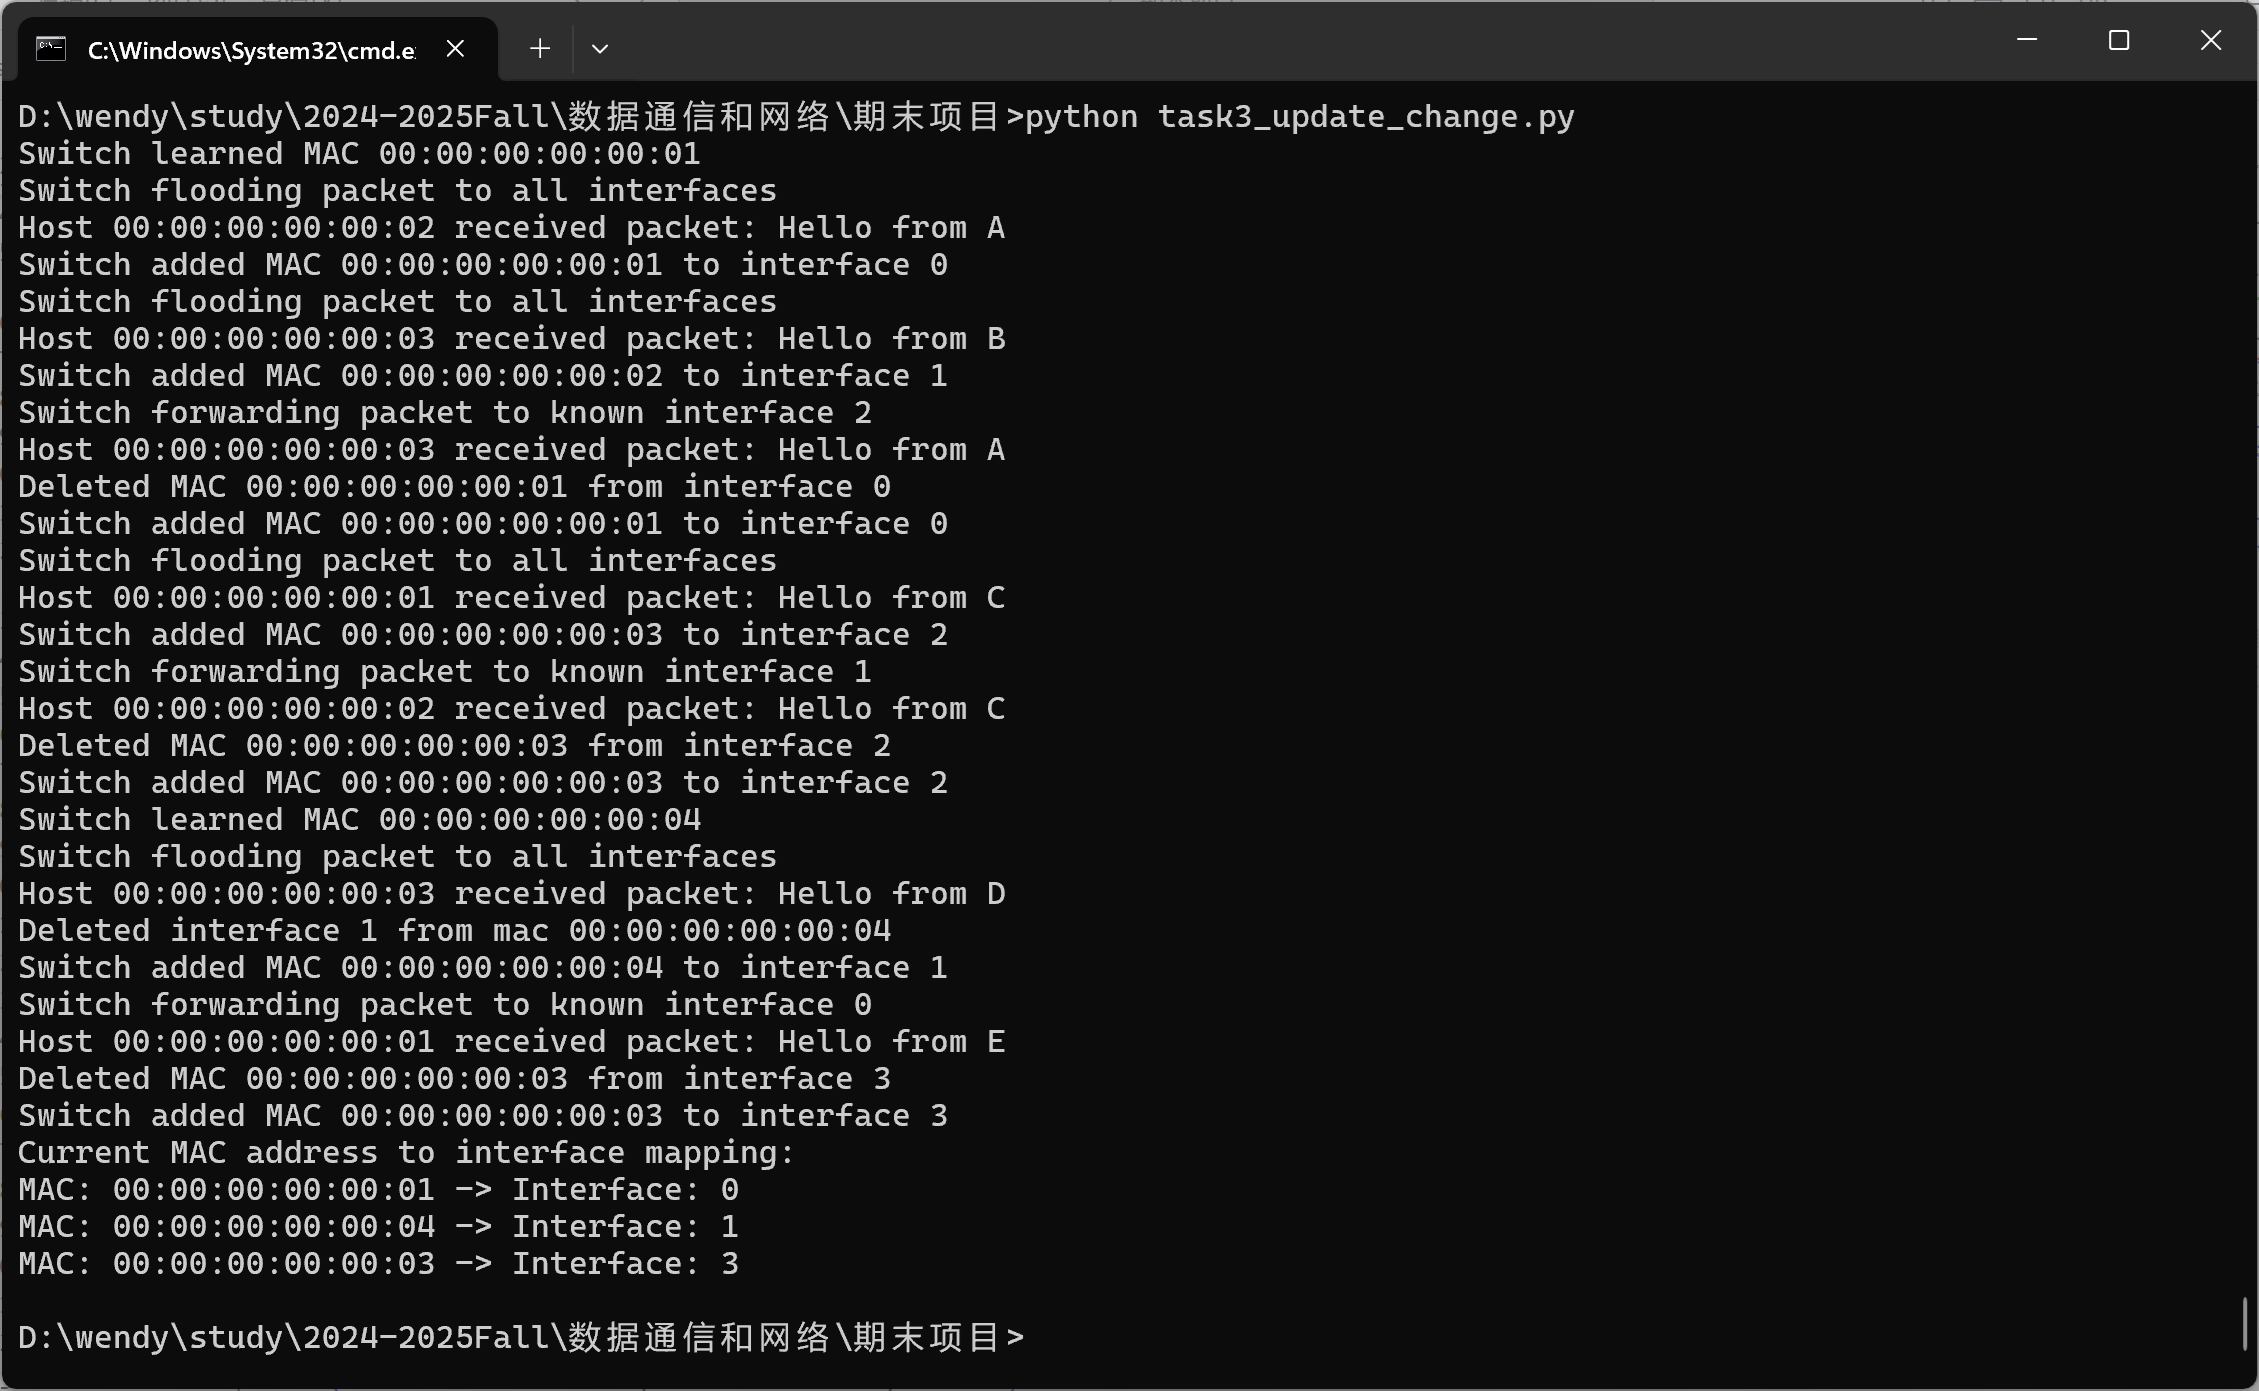
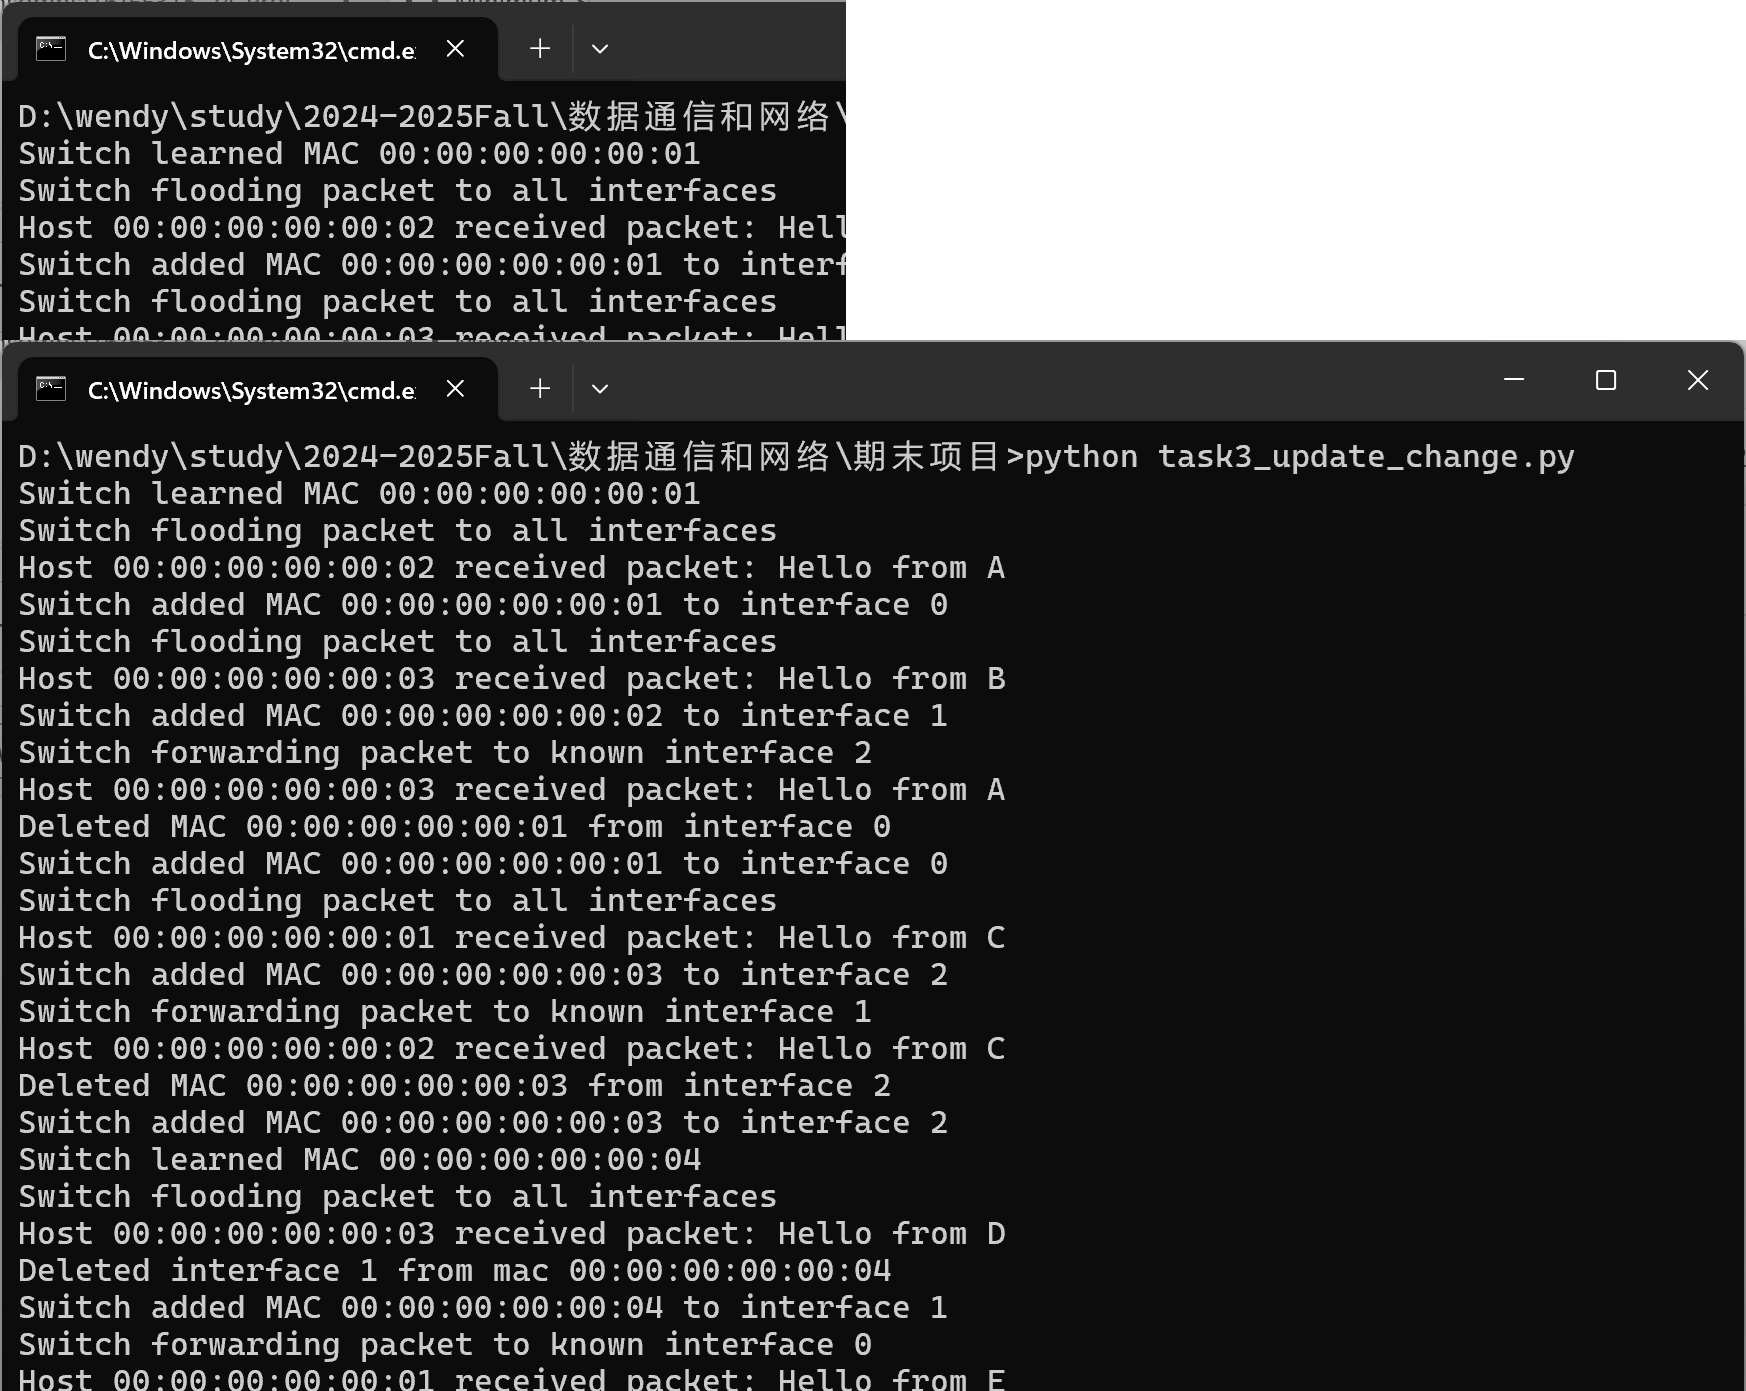
Add files via upload

diff --git a/task3_secret.py b/task3_secret.py
@@ -1,5 +1,35 @@
 from ee315_24_lib import SwitchFabric, Packet
+
+from cryptography.hazmat.primitives.ciphers import Cipher, algorithms, modes
+from cryptography.hazmat.primitives import padding
+from cryptography.hazmat.backends import default_backend
+import os
 import re
+
+# 生成AES密钥
+def generate_aes_key():
+    return os.urandom(32)  # 生成32字节的随机密钥
+
+# AES加密
+def aes_encrypt(key, message):
+    padder = padding.PKCS7(128).padder()
+    padded_message = padder.update(message.encode()) + padder.finalize()
+    iv = os.urandom(16)  # 生成16字节的随机初始化向量
+    cipher = Cipher(algorithms.AES(key), modes.CBC(iv), backend=default_backend())
+    encryptor = cipher.encryptor()
+    encrypted_message = encryptor.update(padded_message) + encryptor.finalize()
+    return iv + encrypted_message  # 返回IV和加密消息的组合
+
+# AES解密
+def aes_decrypt(key, encrypted_message):
+    iv = encrypted_message[:16]  # 提取IV
+    encrypted_message = encrypted_message[16:]  # 提取加密消息
+    cipher = Cipher(algorithms.AES(key), modes.CBC(iv), backend=default_backend())
+    decryptor = cipher.decryptor()
+    padded_message = decryptor.update(encrypted_message) + decryptor.finalize()
+    unpadder = padding.PKCS7(128).unpadder()
+    message = unpadder.update(padded_message) + unpadder.finalize()
+    return message.decode()
 
 class Host:
     def __init__(self, mac, interface):
@@ -8,23 +38,32 @@ class Host:
         self.mac = mac
         self.interface = interface
         self.buffer = []
+        self.aes_key = generate_aes_key()  # 使用AES密钥
 
     def send_packet(self, dst_mac, payload, switch):
-        packet = Packet(self.mac, dst_mac, payload)
+        print(f"Host {self.mac} sending payload: '{payload}'")
+        encrypted_payload = aes_encrypt(self.aes_key, payload)
+        print(f"Host {self.mac} encrypted payload: {encrypted_payload}")
+        print(f"Encrypted payload length: {len(encrypted_payload)}")
+        packet = Packet(self.mac, dst_mac, encrypted_payload)
         switch.handle_packet(packet)
-        switch.add_mac(self.mac, self.interface)
 
     def receive_packet(self, packet):
         if packet.dst == self.mac:
-            self.buffer.append(packet)
-            print(f"Host {self.mac} received packet: {packet.payload}")
+            print(f"Host {self.mac} received encrypted packet: {packet.payload}")
+            print(f"Received payload length: {len(packet.payload)}")
+            decrypted_payload = aes_decrypt(self.aes_key, packet.payload)
+            if decrypted_payload:
+                self.buffer.append(decrypted_payload)
+                print(f"Host {self.mac} decrypted payload: '{decrypted_payload}'")
+            else:
+                print("Failed to decrypt the packet.")
 
 class Switch:
     def __init__(self, fabric, num_interfaces=8):
         self.num_interfaces = num_interfaces
         self.interfaces = {}
         self.mac_table = {}
-        self.mac = {}
         self.fabric = fabric
         for i in range(self.num_interfaces):
             self.interfaces[i] = None
@@ -61,43 +100,24 @@ class Switch:
             for i, host in self.interfaces.items():
                 if host and i != src_mac:
                     self.fabric.forward_to_interface(packet, i)
-    
-    # key changes here
-    def add_mac(self, mac, interface):
-        # delete the old interface
-        old_mac = self.get_mac_for_interface(interface)
-        if old_mac!= mac and old_mac != None:
-            del self.mac[old_mac]
-            del self.mac_table[old_mac]
-            print(f"Deleted interface {interface} from mac {mac}")
-        # delete the old mac
-        if mac in self.mac:
-            del self.mac[mac]
-            del self.mac_table[mac]
-            print(f"Deleted MAC {mac} from interface {interface}")
-        self.mac[mac] = interface
-        print(f"Switch added MAC {mac} to interface {interface}")
-
-    def get_mac_for_interface(self, interface):
-        for mac, intf in self.mac.items():
-            if intf == interface:
-                return mac
-        return None
-
-    def print_mac(self):
-        print("Current MAC address to interface mapping:")
-        for mac, interface in self.mac.items():
-            print(f"MAC: {mac} -> Interface: {interface}")
 
 # 创建网络
 shared_fabric = SwitchFabric()
 switch = Switch(shared_fabric)
 
+# 共享密钥
+shared_aes_key = generate_aes_key()
+
 host1 = Host("00:00:00:00:00:01", 0)
 host2 = Host("00:00:00:00:00:02", 1)
 host3 = Host("00:00:00:00:00:03", 2)
 
-# 连接主机到交换机
+# 设置所有主机使用相同的密钥
+host1.aes_key = shared_aes_key
+host2.aes_key = shared_aes_key
+host3.aes_key = shared_aes_key
+
+# Connect hosts directly through fabric
 shared_fabric.connect_host_to_switch(host1, switch)
 shared_fabric.connect_host_to_switch(host2, switch)
 shared_fabric.connect_host_to_switch(host3, switch)
@@ -108,16 +128,3 @@ host2.send_packet("00:00:00:00:00:03", "Hello from B", switch)
 host1.send_packet("00:00:00:00:00:03", "Hello from A", switch)
 host3.send_packet("00:00:00:00:00:01", "Hello from C", switch)
 host3.send_packet("00:00:00:00:00:02", "Hello from C", switch)
-
-# 添加新的MAC地址
-host4 = Host("00:00:00:00:00:04", 1)
-shared_fabric.connect_host_to_switch(host4, switch)
-host4.send_packet("00:00:00:00:00:03", "Hello from D", switch)
-
-# 添加新的接口
-host5 = Host("00:00:00:00:00:03", 3)
-shared_fabric.connect_host_to_switch(host5, switch)
-host5.send_packet("00:00:00:00:00:01", "Hello from E", switch)
-
-# 打印当前的MAC地址到接口映射
-switch.print_mac()
